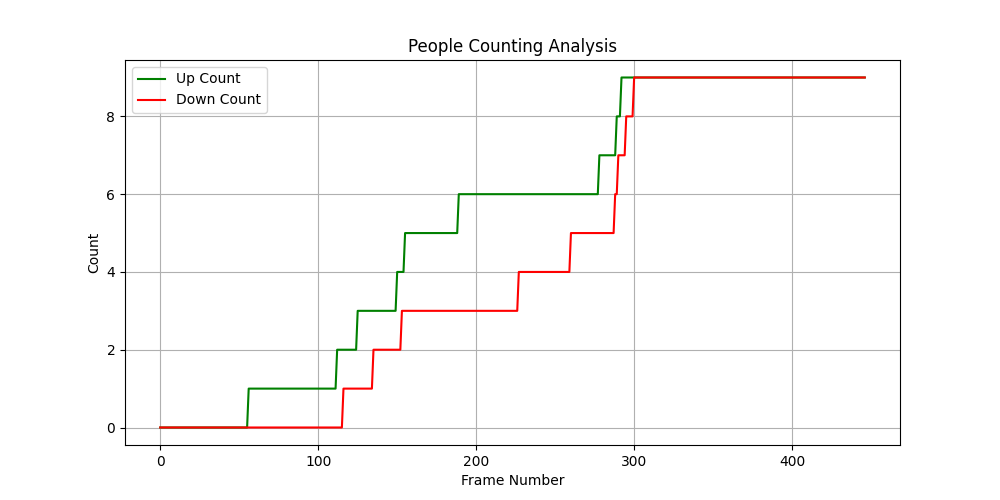
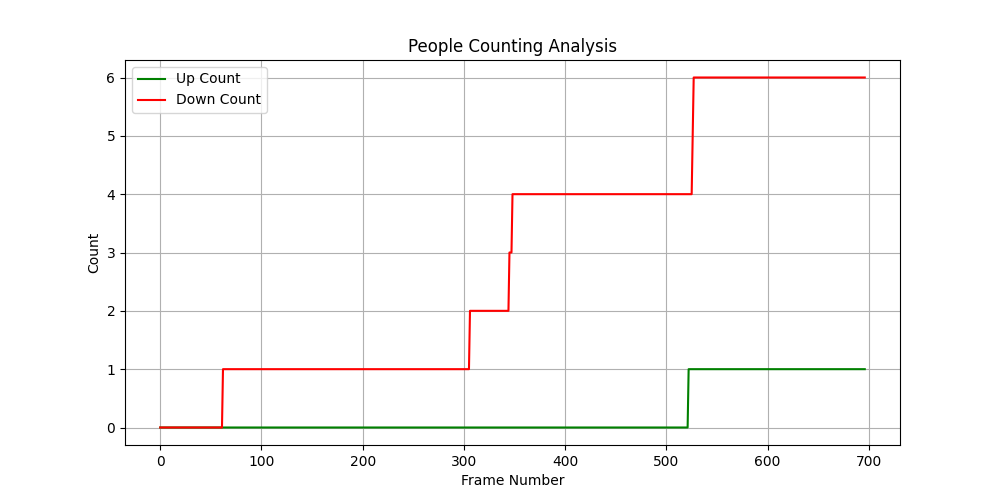
footage change

diff --git a/exp.py b/exp.py
@@ -244,7 +244,7 @@ def main(video_path):
     plt.show()
 
 if __name__ == "__main__":
-    video_path = 'test3.mp4'  # Change this to your video file path
+    video_path = 'test.mp4'  # Change this to your video file path
     try:
         main(video_path)
     except Exception as e:
